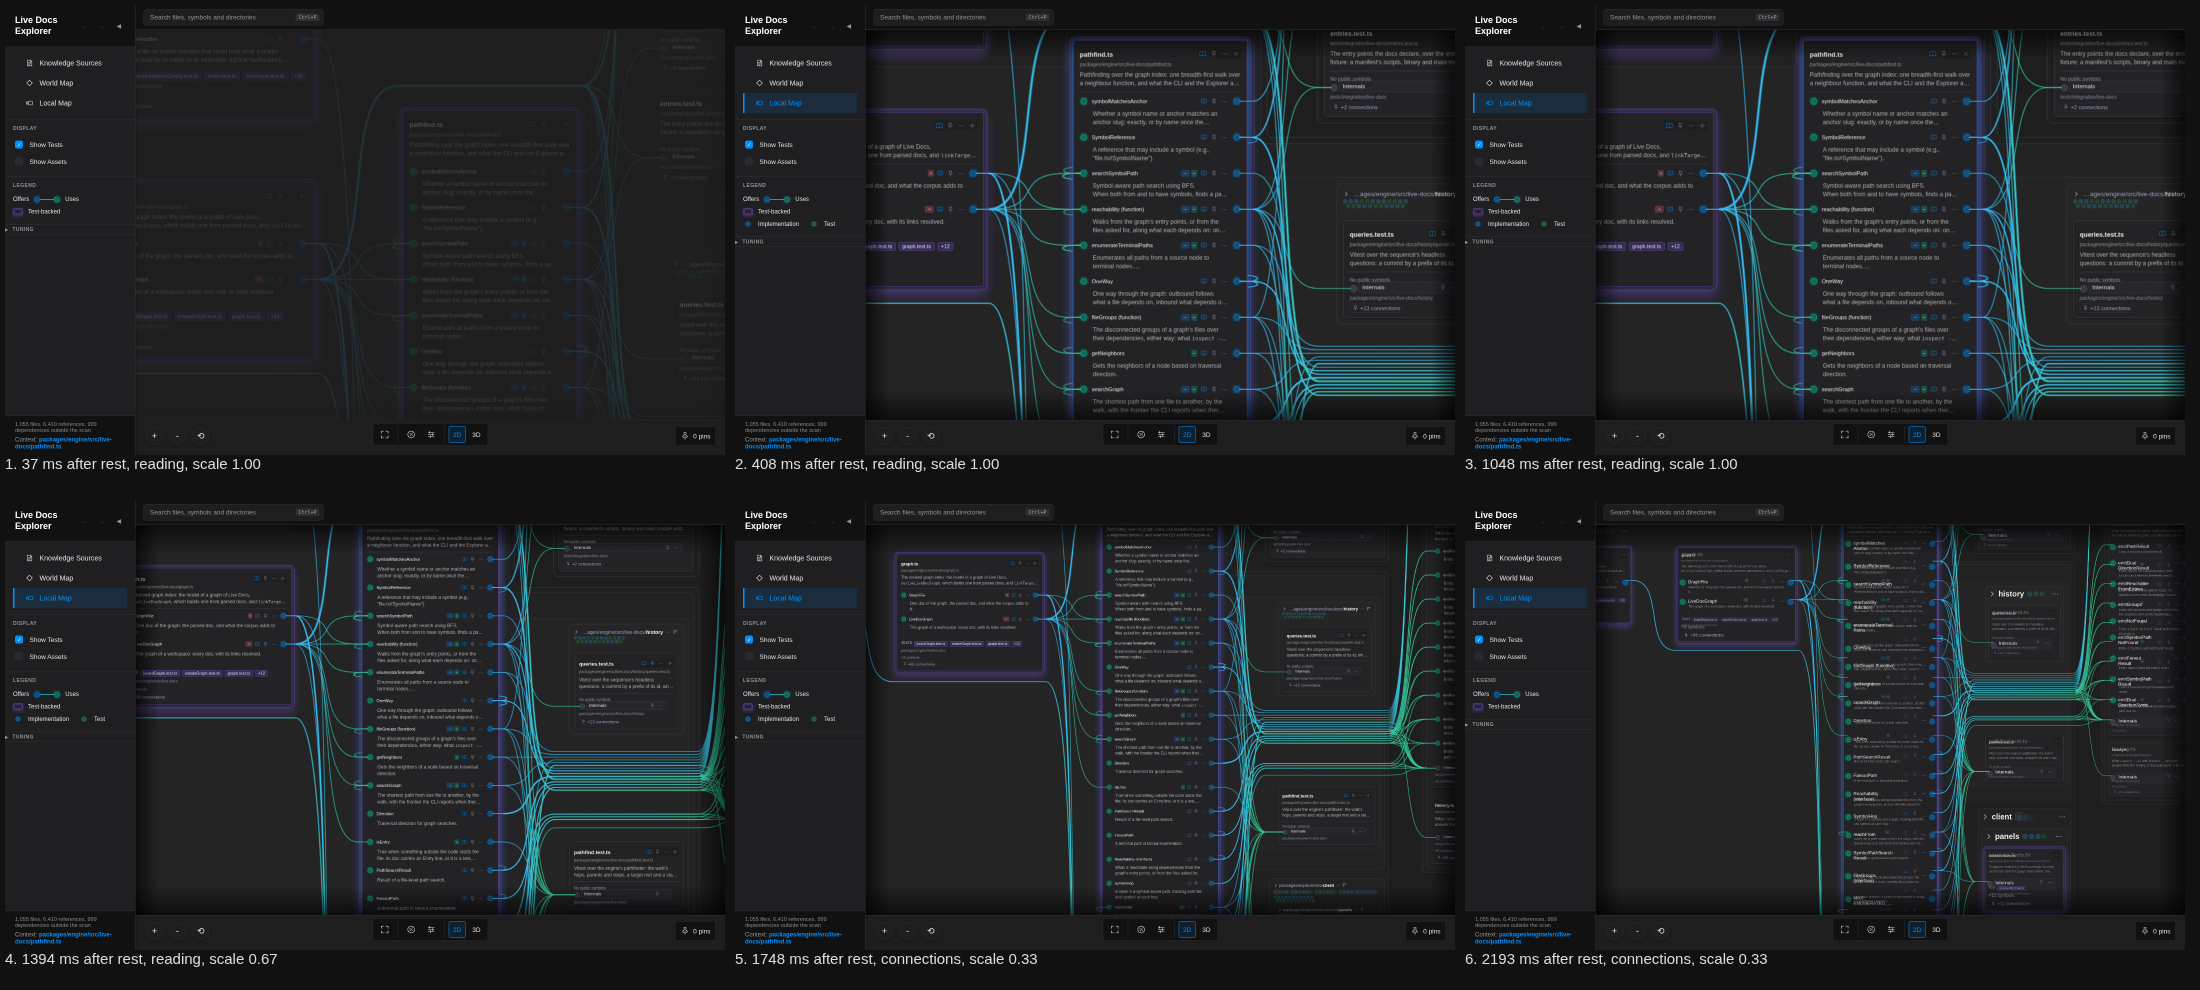
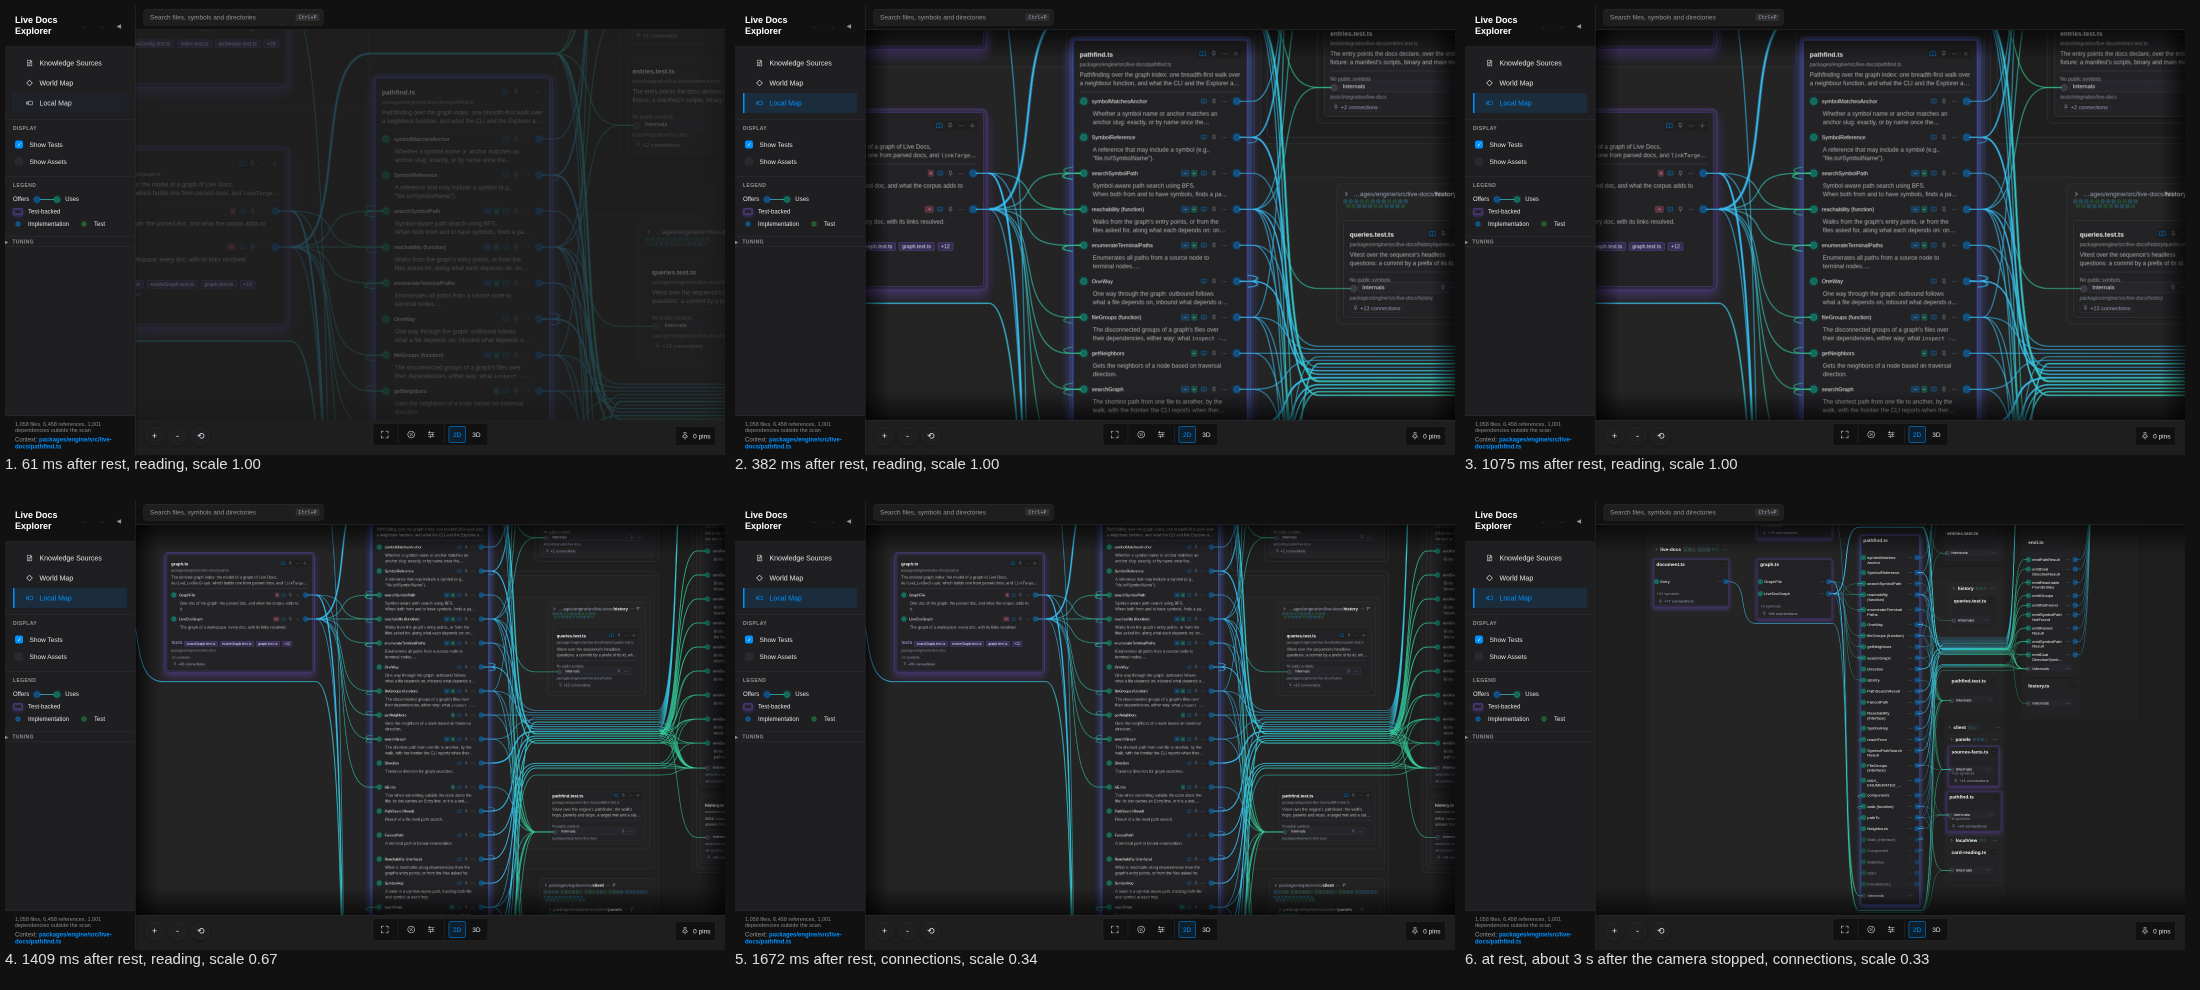
Correct the arrival pictures: the end at rest, and the look-change stall it had hidden
The repository's sixth arrival frame had been a moment inside the ease,
caught during the reading-to-connections look's cross-fade while the
page stalled at that edge; it is replaced by a still at rest, and the
doubled frame is kept and named for what it is. Measured: the picture
at rest is final when the camera stops (a later change of at most one
level in 255), and the stall at the look's edge, about a quarter of a
second, comes with a person's wheel on main's code path as well.

diff --git a/AI-Agent-Workspace/AgentSessionHistory/2026/11/2026-11-18/Screenshots/camera-intent/README.md b/AI-Agent-Workspace/AgentSessionHistory/2026/11/2026-11-18/Screenshots/camera-intent/README.md
@@ -19,15 +19,21 @@ Measured on this round's build: the first cell's card wholly inside the frame, t
 
 ## An arrival: Reading, Then Neighbours
 
-Six frames of a screencast across the hold and the ease, picked by time from the camera's own scale sampled every few milliseconds: at rest at reading size, mid-hold, the hold's end, a third and two thirds into the ease, and the end. A screencast sends a frame only when the picture changes, so the hold's frames repeat the first.
+Five frames of a screencast across the hold and the ease, picked by time from the camera's own scale sampled every few milliseconds (at rest at reading size, mid-hold, the hold's end, a third and two thirds into the ease), and a sixth, a still taken about three seconds after the camera stopped. A screencast sends a frame only when the picture changes, so the hold's frames repeat the first; and on a heavy picture its frame can be older than the time it is labelled with, which is what happened to this repository's fifth frame (below).
 
 | Picture | What I see |
 | --- | --- |
-| `arrival-strip-repo-pathfind.png` | `pathfind.ts`. Frames 1 to 3: the card at reading size, centred, its neighbours cut at both edges, as today's arrival leaves it (frame 1 is still the page's own fade-in). Frame 4, a third into the ease: scale 0.67, the card shrinking about its own middle, `graph.ts` coming in at the left and the `history` directory at the right. Frames 5 and 6: the connections look at scale 0.335, the floor (the connections look's sixth press): `pathfind.ts` centred, `document.ts` and `graph.ts` at the left, the history, client and panels directories and `emit.ts` at the right, every name legible; the neighbours above and below are cut, as the rule says when they do not all fit. The hold measured 1,056 ms from the samples and the ease 1,029 ms to the first sample at rest, longer than the 700 ms written because this picture's frames are slow to draw. |
-| `arrival-strip-estate-payments-context.png` | `PaymentsContext.cs`. Frames 1 to 3: the card at its reading scale, 1.45, its neighbours cut. Frame 4: scale 1.23, the first of the ease. Frame 5: 0.66, the look changing to connections. Frame 6: scale 0.59, the whole neighbourhood: `PaymentService` with `App.config`, `…ervice/Data` with `PostPaymentRow.cs` and `Payment.cs`, `…/SqlServer` with the stored procedure, `PaymentService.cs` at the right, and the subject in the middle with its blue ring. Hold 940 ms, ease 688 ms. |
-| `arrival-repo-pathfind-frame-1.png`, `…-frame-6.png`; `arrival-estate-payments-context-frame-1.png`, `…-frame-6.png` | The first and last frames of each strip at full size. |
+| `arrival-strip-repo-pathfind.png` | `pathfind.ts`. Frames 1 to 3: the card at reading size, centred, its neighbours cut at both edges, as today's arrival leaves it (frame 1 is still the page's own fade-in). Frame 4, a third into the ease: scale 0.67, the card shrinking about its own middle, `graph.ts` coming in at the left and the `history` directory at the right. Frame 5 is labelled 0.34 but is the same picture as frame 4: the page drew no new frame for a quarter of a second there (below). Frame 6, at rest: the connections look at scale 0.335, the floor (the connections look's sixth press): `pathfind.ts` centred, `document.ts` and `graph.ts` at the left, the history, client and panels directories, `emit.ts` and `history.ts` at the right, every name drawn once and legible; the neighbours above and below are cut, as the rule says when they do not all fit. |
+| `arrival-strip-estate-payments-context.png` | `PaymentsContext.cs`. Frames 1 to 3: the card at its reading scale, 1.45, its neighbours cut. Frame 4: scale 1.23, the first of the ease. Frame 5: 0.66, the look changing to connections. Frame 6, at rest: scale 0.59, the whole neighbourhood: `PaymentService` with `App.config`, `…ervice/Data` with `PostPaymentRow.cs` and `Payment.cs`, `…/SqlServer` with the stored procedure, `PaymentService.cs` at the right, and the subject in the middle with its blue ring. Hold 948 ms, ease 687 ms, 39 frames in the ease, none more than 33 ms apart. |
+| `arrival-repo-pathfind-frame-1.png`, `…-frame-6.png`; `arrival-estate-payments-context-frame-1.png`, `…-frame-6.png` | The first frame and the still at rest of each strip, at full size. |
+| `arrival-repo-pathfind-at-stop.png` | The first screenshot taken once the map stopped saying its camera moves: already the picture at rest, every name single. |
+| `arrival-repo-pathfind-look-change-mid-ease.png` | **Not the end:** a frame from the first strip, which I had taken for the end and labelled so, wrongly. Every row's name at the connections look's size is drawn over its reading-size text and description, `graph.ts` and `pathfind.test.ts` twice: the look's own cross-fade from reading to connections (`morphLook`, 160 ms), caught while the page stalled at the look's edge. |
 
-**Is the pull back jarring?** On the estate it reads as a camera stepping back: the subject shrinks and slides from the middle to a little right of it while its neighbours arrive around it, and nothing jumps; the change of look (reading to connections, the names re-held at their look's size) happens during the ease and is the one moment where text visibly changes size under motion. On this repository it reads as a straight zoom out about the subject, which stays centred throughout, and the ease is smooth but slow-feeling because the frames are heavy. Neither is a jolt; whether the hold of about a second is too long or too short, and whether the end should be the default, is for the owner's eye.
+**When the picture stops changing.** Screenshots taken as fast as they come from the moment the map stops saying its camera moves, for 2.5 s: on `pathfind.ts` the picture changes once more within 0.43 s and the estate within 0.12 s, and each of those changes is at most 1 level of 255 in any channel (227 pixels on `pathfind.ts`, in the sidebar's corner): nothing a person sees. So the text does not change size after the motion has ended; the doubled picture was inside the ease, not after it.
+
+**The stall at the look's edge, older than this round.** Counting the frames the page draws during the ease on `pathfind.ts`: 20 frames at 17 ms each from scale 1.0 down to 0.62, then a frame 267 ms late at 0.58, then one 250 ms late at 0.337, so the last third of the ease is two jumps. The jump is where the reading look gives way to the connections look. A person's own wheel on main's code path (the default arrival, then six turns of the wheel out across the same edge) shows the same: frames 233, 167 and 150 ms apart at scale 0.60 to 0.47. So the cost is the look change on this repository's large picture, not the arrival; the arrival only crosses it on every visit where the wheel crosses it when a person zooms. On the estate the same crossing costs nothing visible.
+
+**Is the pull back jarring?** On the estate it reads as a camera stepping back: the subject shrinks and slides from the middle to a little right of it while its neighbours arrive around it, and nothing jumps; the change of look (reading to connections, the names re-held at their look's size) happens during the ease and is the one moment where text visibly changes size under motion. On this repository the first two thirds are a smooth zoom out about the subject, which stays centred, and the last third jumps twice at the look's edge, as a wheel's zoom does there; that jump is the one thing in it I would call jarring, and it is not the arrival's own. Whether the hold of about a second is too long or too short, and whether the pull back should be the default, is for the owner's eye.
 
 ## The lever's address
 
